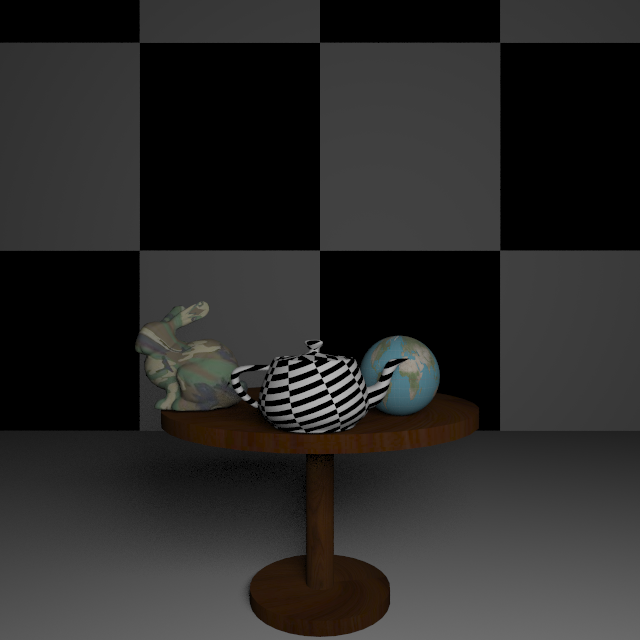
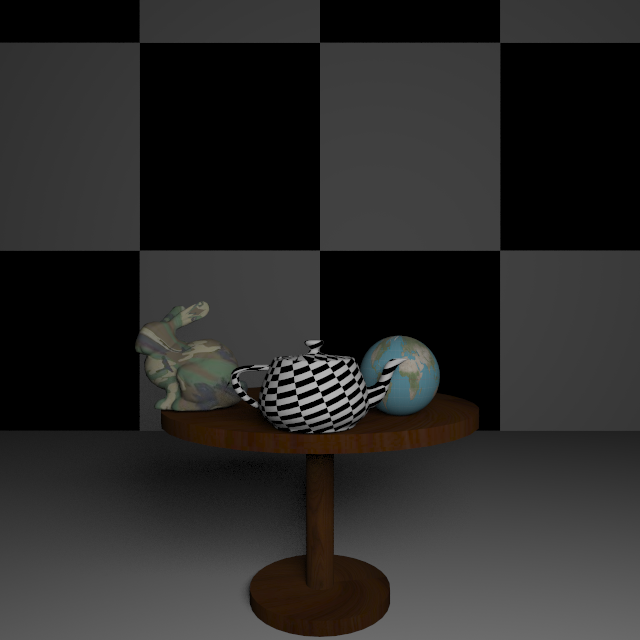
modulo 3 instead of 2

Changed region(s): [[0.4062, 0.5312, 0.625, 0.6875], [0.3438, 0.5625, 0.4062, 0.5938]]

diff --git a/src/scene/Scene.java b/src/scene/Scene.java
@@ -96,7 +96,7 @@ public class Scene {
 		s.add(table);
 		s.add(floor);
 		s.add(wallBehind);
-		//ls.add(new PointLightSource(new Point(1,1,0), new RGBSpectrum(255,255,255)));
+		ls.add(new PointLightSource(new Point(1,1,0), new RGBSpectrum(255,255,255)));
 		ls.add(new AreaLight(new RGBSpectrum(255,255,255), new Point(0,0,0), new Vector(2,0,0), new Vector(0,2,0)));
 
 		//ls.add(new PointLightSource(new Point(-5,5,-3), new RGBSpectrum(255,0,0)));

diff --git a/src/acceleration/BVH.java b/src/acceleration/BVH.java
@@ -122,7 +122,7 @@ public class BVH {
 				second.expand(shape.createNewBV());
 			}
 		}
-		currentSplit = (currentSplit + 1) % 2;
+		currentSplit = (currentSplit + 1) % 3;
 		superbv.clearShapes();
 		return new Pair<BV, BV>(first, second);
 	}
